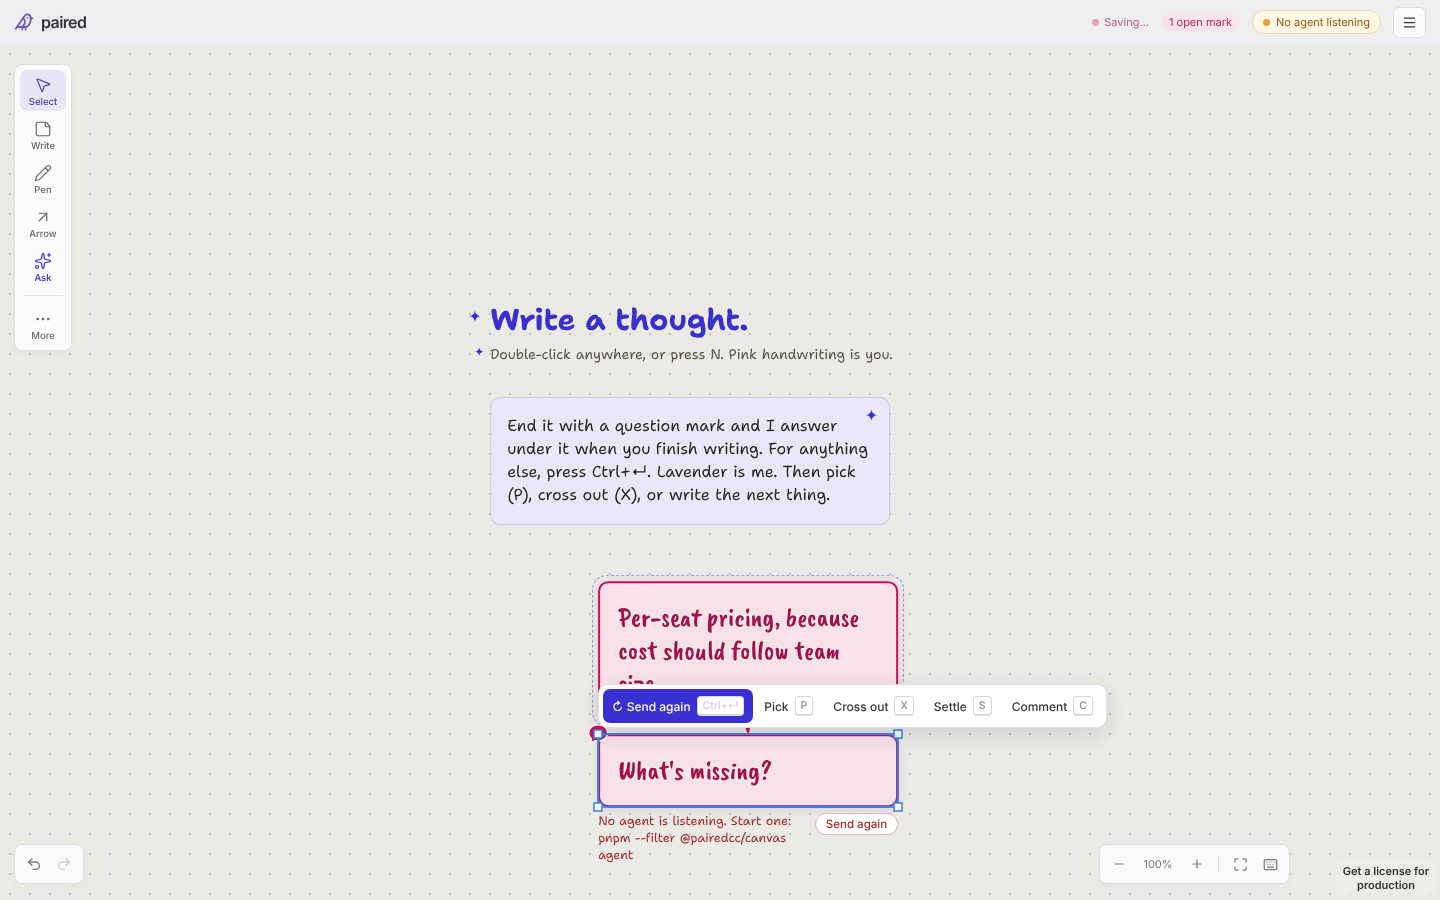
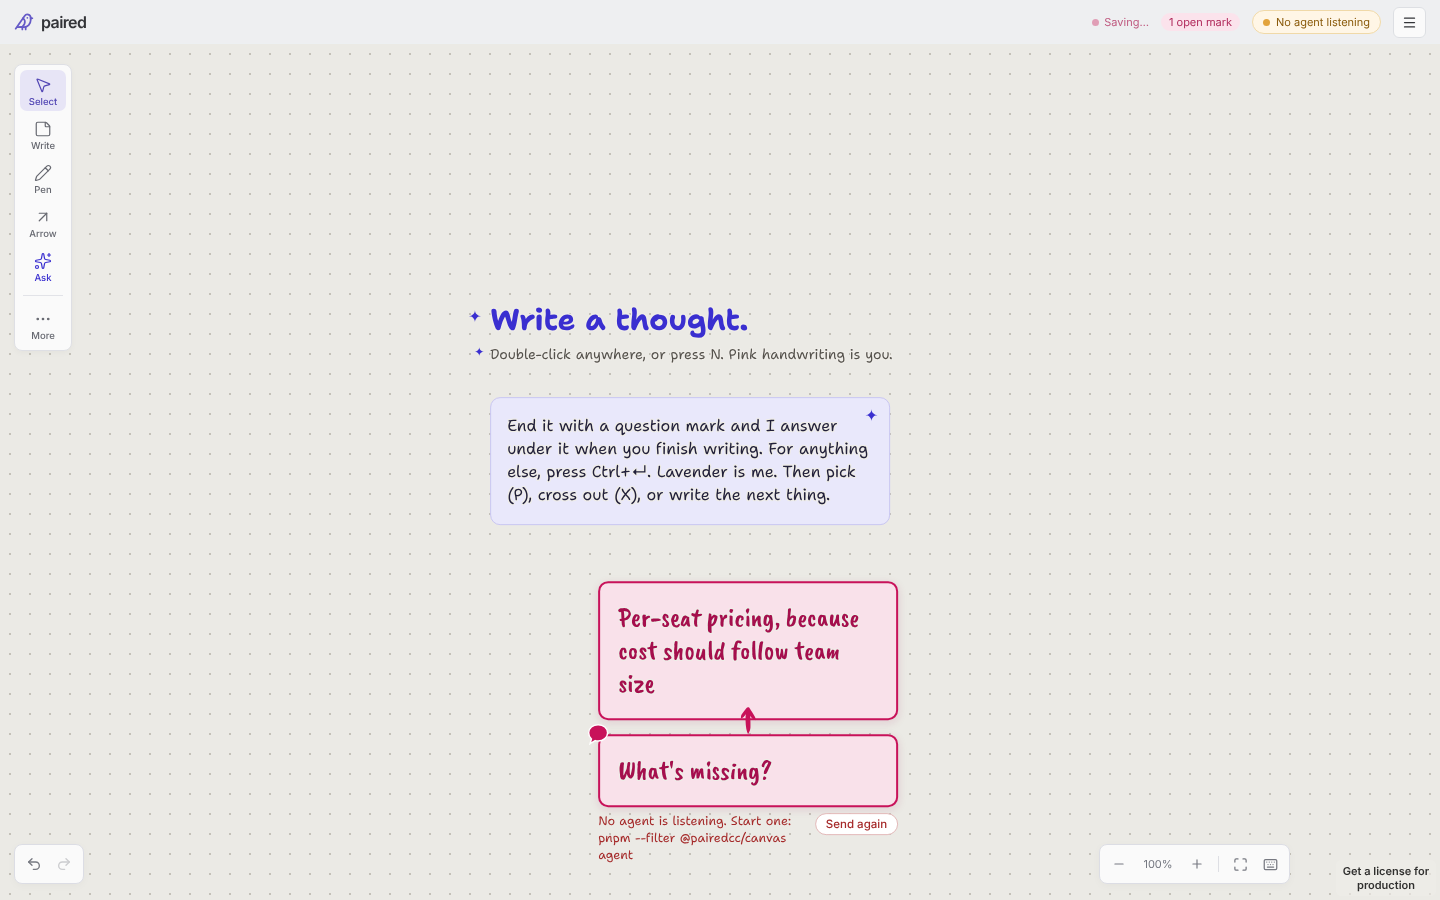
A chosen suggestion is sent and nothing stays selected, so the bar never covers the thought

Changed region(s): [[0.4062, 0.7467, 0.7812, 0.84], [0.5938, 0.8711, 0.625, 0.9022], [0.4062, 0.8711, 0.4375, 0.9022]]

diff --git a/packages/canvas/src/suggest-ui.tsx b/packages/canvas/src/suggest-ui.tsx
@@ -1,5 +1,5 @@
 import { useEffect, useRef, useState } from "react";
-import { useEditor, useValue, type Editor, type TLShape, type TLShapeId } from "tldraw";
+import { useEditor, useValue, type Editor, type TLShape } from "tldraw";
 import { askOf, createAsk, writtenByPerson } from "./asks";
 import { sendAsk } from "./ask-ui";
 import { selectedRecords } from "./import-board";
@@ -116,7 +116,9 @@ export function SuggestLayer() {
     setOffer(null);
     const id = createAsk(editor, { targetIds: offer.targetIds, question: text, at: { x: offer.x, y: offer.y } });
     sendAsk(editor, id);
-    editor.select(id as TLShapeId);
+    // Sent as it stands, like a card sent with Ask: nothing stays selected, so the bar never
+    // covers the thought the question is about; the ask's state line says what happens.
+    editor.selectNone();
     editor.focus();
   };
   return (
